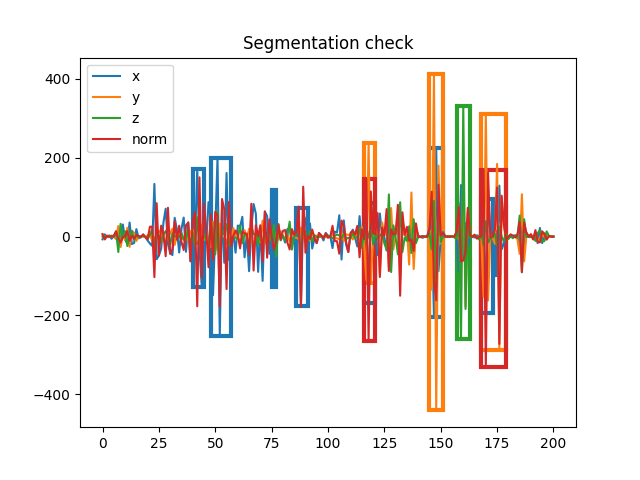
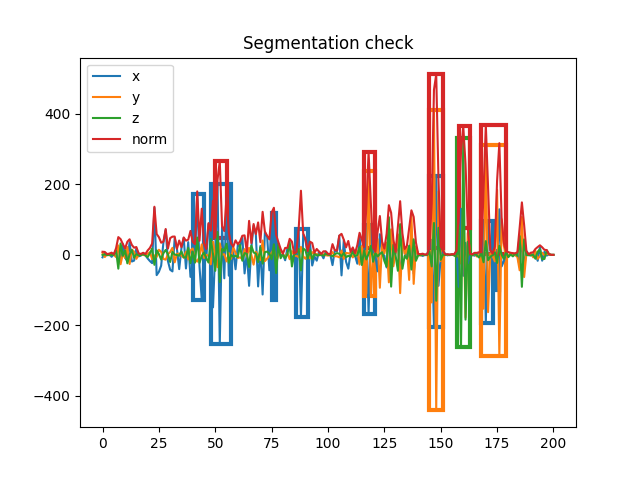
omg we create a function to compute norm

diff --git a/signalUtils.py b/signalUtils.py
@@ -4,21 +4,48 @@ import mathsUtils as MATH
 import matplotlib.pyplot as plt
 from matplotlib.patches import Rectangle
 import random
+import numpy as np
 
 def all_calculations(downsampled_x_accel, downsampled_y_accel, downsampled_z_accel, downsampled_timestamp, sigma, window_size, envelopp_multiplier, threshold_multiplier):
     # Normalise the acceleration data
-    norm = []
-    for i in range(0, len(downsampled_x_accel)):
-            norm.append(sqrt(pow(downsampled_x_accel[i], 2) + pow(downsampled_y_accel[i], 2) + pow(downsampled_z_accel[i], 2)))
 
-    norm_derivative, norm_gaussian, abs_norm, envelopp_norm, start_norm, end_norm = MATH.simple_segmentation(
-            downsampled_timestamp, norm, sigma, window_size, envelopp_multiplier, threshold_multiplier)
     xaccel_derivative, xaccel_gaussian, abs_xaccel, envelopp_xaccel, start_xaccel, end_xaccel = MATH.simple_segmentation(
             downsampled_timestamp, downsampled_x_accel, sigma, window_size, envelopp_multiplier, threshold_multiplier)
     yaccel_derivative, yaccel_gaussian, abs_yaccel, envelopp_yaccel, start_yaccel, end_yaccel = MATH.simple_segmentation(
             downsampled_timestamp, downsampled_y_accel, sigma, window_size, envelopp_multiplier, threshold_multiplier)
     zaccel_derivative, zaccel_gaussian, abs_zaccel, envelopp_zaccel, start_zaccel, end_zaccel = MATH.simple_segmentation(
             downsampled_timestamp, downsampled_z_accel, sigma, window_size, envelopp_multiplier, threshold_multiplier)
+    
+    norm_derivative = MATH.compute_norm(xaccel_derivative, yaccel_derivative, zaccel_derivative)
+    norm_gaussian = MATH.compute_norm(xaccel_gaussian, yaccel_gaussian, zaccel_gaussian)
+
+    abs_norm = np.abs(norm_gaussian)
+    mean_norm = np.convolve(abs_norm, np.ones(window_size) / window_size, mode='same')
+    std_norm = np.convolve((abs_norm - mean_norm)**2, np.ones(window_size) / window_size, mode='same')
+    envelopp_norm = envelopp_multiplier * np.sqrt(std_norm)
+    threshold_norm = threshold_multiplier * max(envelopp_norm)
+
+    # Apply adaptive thresholding to identify movement segments
+    is_movement = envelopp_norm > threshold_norm
+
+    # Find the indices of movement segments
+    segment_start_indices = np.where(np.diff(is_movement.astype(int)) == 1)[0] + 1
+    segment_end_indices = np.where(np.diff(is_movement.astype(int)) == -1)[0] + 1
+
+
+    # Print the segment start and end indices
+    start_norm = []
+    end_norm = []
+    for start, end in zip(segment_start_indices, segment_end_indices):
+        # for exception, allow to throw errors
+        if start > end:
+            temp = start
+            start = end
+            end = temp
+        #print("Segment : Start = {} seconds, End = {} seconds".format(start, end))
+        start_norm.append(start)
+        end_norm.append(end)
+
 
     GRAPH.plots_data(downsampled_timestamp, 
                     "Derivative",
@@ -101,9 +128,7 @@ def rectangle_extraction(x_coordinates, y_coordinates, z_coordinates, x_accel, y
         plt.show()
 
         _, ax = plt.subplots()
-        norm = []
-        for i in range(0, len(x_accel)):
-                norm.append(sqrt(pow(x_accel[i], 2) + pow(y_accel[i], 2) + pow(z_accel[i], 2)))
+        norm = MATH.compute_norm(x_accel, y_accel, z_accel)
         plt.plot(norm, label="norm")
 
 

diff --git a/mathsUtils.py b/mathsUtils.py
@@ -1,27 +1,7 @@
 from scipy.ndimage import gaussian_filter1d
 import numpy as np
 from typing import List, Tuple
-
-def derivative_3_data(normalised_timestamp_acc, x_accel, y_accel, z_accel):
-    x_derivative = []
-    y_derivative = []
-    z_derivative = []
-    t_i = normalised_timestamp_acc[0]
-    for i in range(1, len(normalised_timestamp_acc)):
-        t_i1 = normalised_timestamp_acc[i]
-        a_x = (x_accel[i] - x_accel[i-1]) / (t_i1 - t_i)
-        a_y = (y_accel[i] - y_accel[i-1]) / (t_i1 - t_i)
-        a_z = (z_accel[i] - z_accel[i-1]) / (t_i1 - t_i)
-        x_derivative.append(a_x)
-        y_derivative.append(a_y)
-        z_derivative.append(a_z)
-        t_i = t_i1
-
-    x_derivative.append(x_derivative[-1])
-    y_derivative.append(y_derivative[-1])
-    z_derivative.append(z_derivative[-1])
-
-    return x_derivative, y_derivative, z_derivative
+from math import sqrt, pow
 
 def derivative(normalised_timestamp_acc, x_accel):
     x_derivative = []
@@ -114,3 +94,18 @@ def rectangle_segmentation(segment_start: Tuple[List[float], List[float], List[f
 
     return new_start, new_end
 
+def compute_norm(*signals: List[List[float]]):
+    signal_amount = len(signals)
+    min_len_signal = len(signals[0])
+    for i in range(signal_amount):
+        if len(signals[i]) < min_len_signal:
+            min_len_signal = len(signals[i])
+     
+    norm = []
+    for i in range(min_len_signal):
+        res = 0
+        for j in range(signal_amount):
+            res += pow(signals[j][i], 2)
+        norm.append(sqrt(res))
+
+    return norm

diff --git a/main.py b/main.py
@@ -1,9 +1,10 @@
 import readingsUtils.csv_reading.txtUtils as TXT
 import readingsUtils.csv_reading.csvUtils as CSV
-import mathsUtils as MATH
+import matplotlib.pyplot as plt
 import numpy as np
 import signalUtils as SIGNAL
 import graphUtils as GRAPH
+from math import sqrt
 
 if __name__ == "__main__":
 
@@ -16,6 +17,7 @@ if __name__ == "__main__":
         threshold_multiplier = 0.5 # if too low (<0.4), detection check shows ungesture instead of gesture, if too high, gesture are too much segmented
 
         sigma = 0.1
+
 
         # SEGMENTATION
         start_xaccel, end_xaccel, start_yaccel, end_yaccel, start_zaccel, end_zaccel = SIGNAL.all_calculations(
